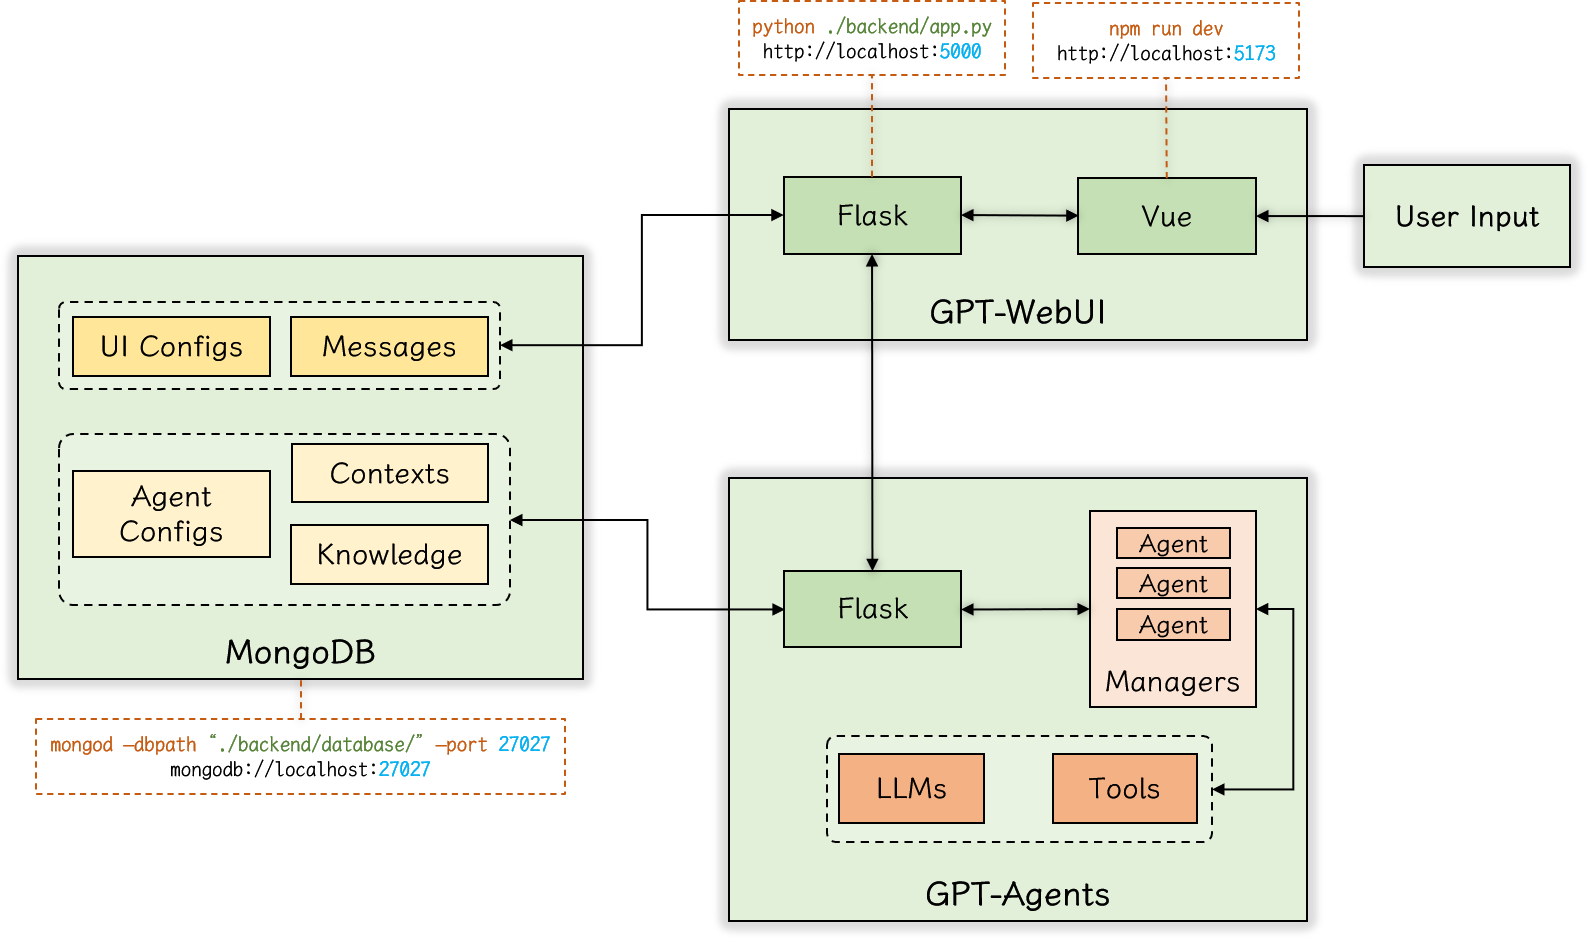
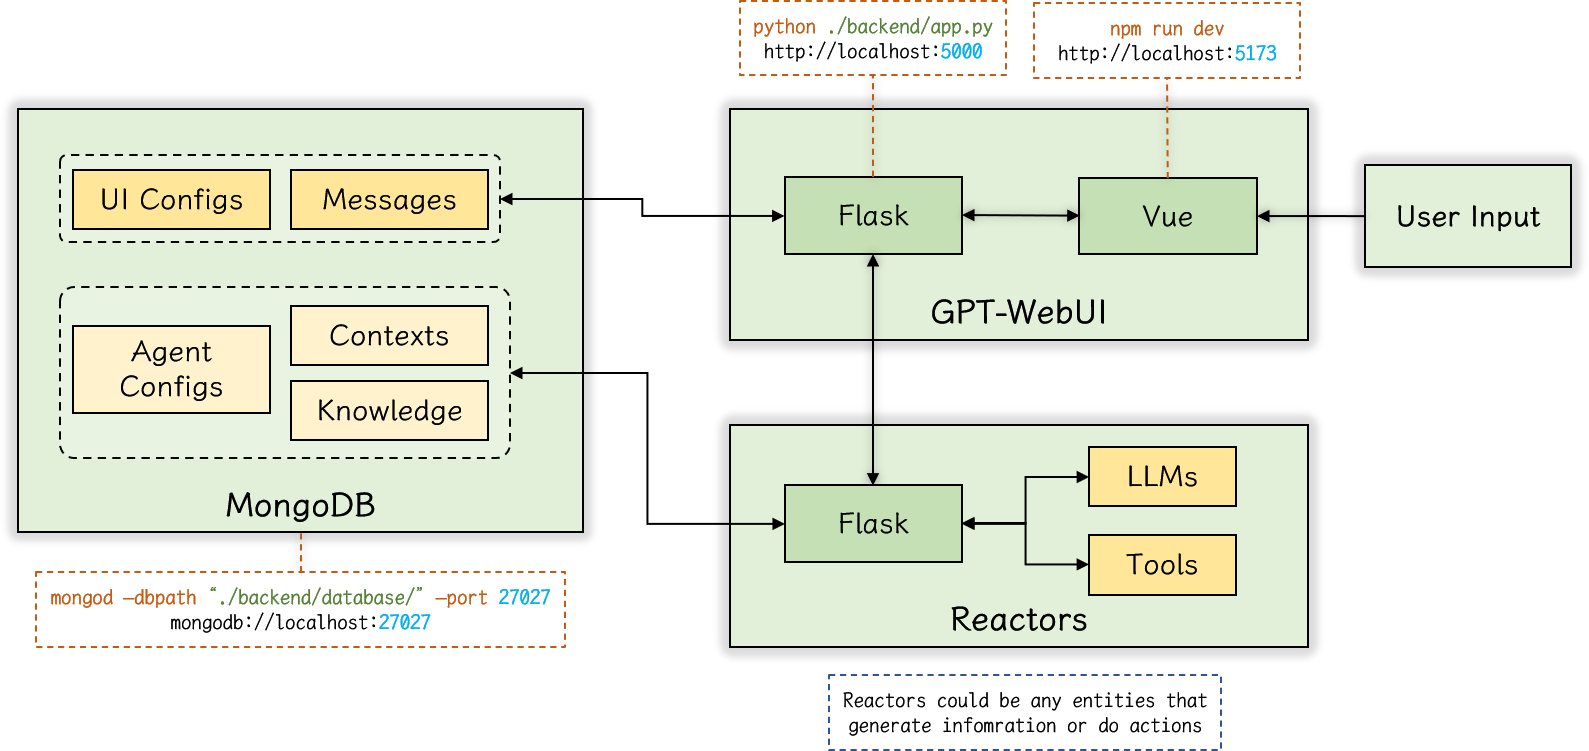
[Doc] Update architecture to make it more general, and move GPT-Agents part

diff --git a/README.md b/README.md
@@ -5,19 +5,15 @@ A clean and powerful web UI for all kinds of GPT-like chat service
 
 Here is the latest interface of the GPT-WebUI:
 
-![](examples/gpt-webui.png)
+![](examples/frontend.png)
 
 
 # Architecture
 
-Here is the architecture of the GPT-WebUI + GPT-Agents + MongoDB:
+Here is the architecture of the GPT-WebUI + Reactors + MongoDB:
 
 ![](examples/architecture.png)
 
-
-Here is the architecture of the GPT-Agents:
-
-![](examples/gpt-agents.png)
 
 # npm commands
 
